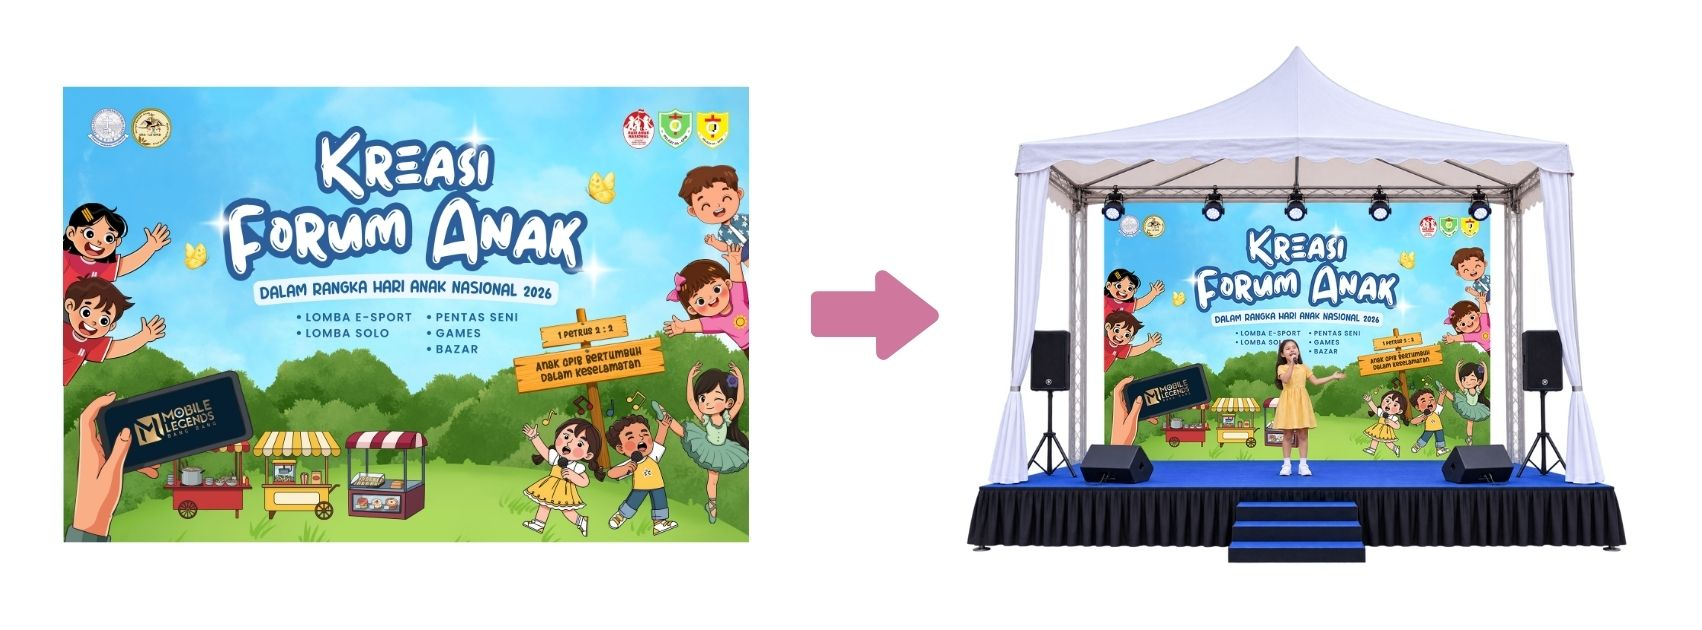
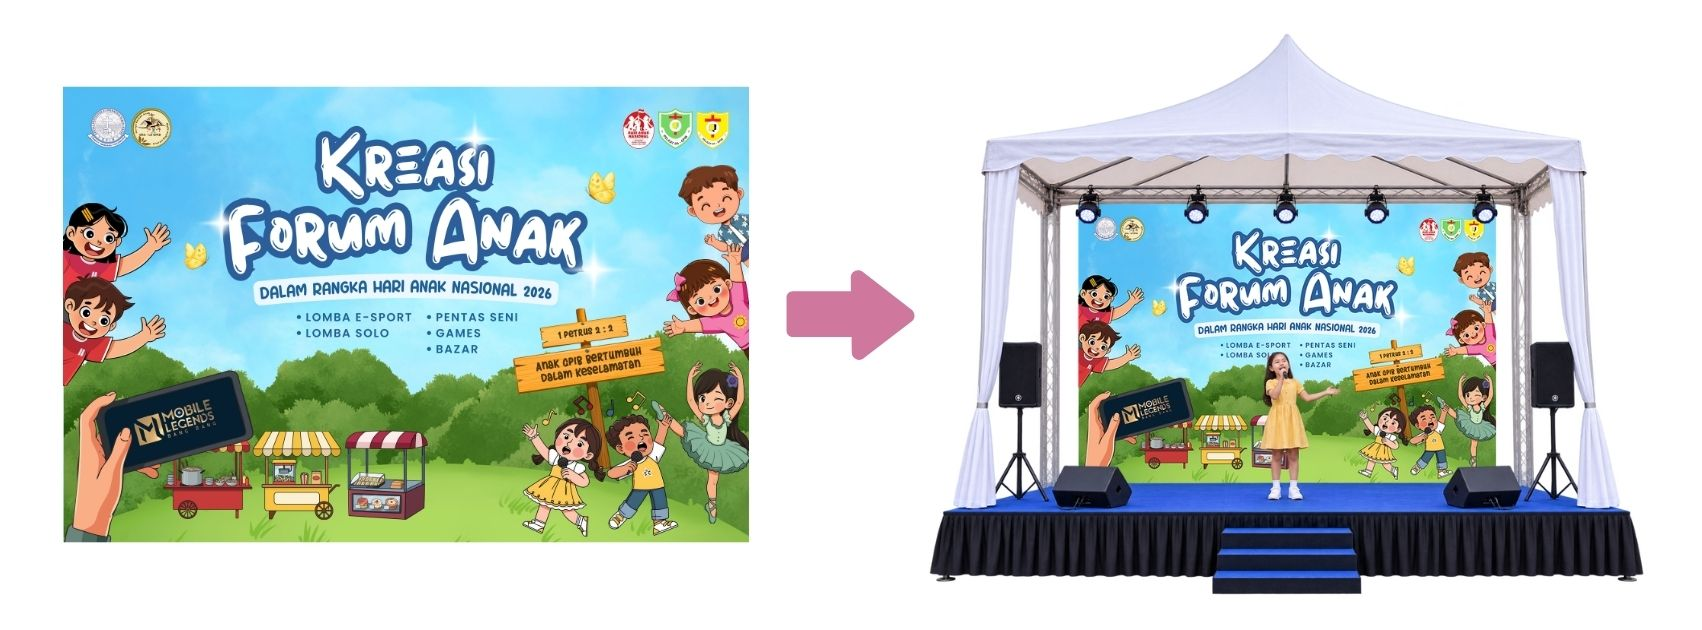
Update layout galeri Desain Lain dengan rasio Sampul Facebook (820x312)

diff --git a/app/portfolio/[slug]/page.tsx b/app/portfolio/[slug]/page.tsx
@@ -55,6 +55,7 @@ interface ActiveModalState {
   currentIndex: number;
   isSquare: boolean;
   isPortrait1080x1920?: boolean;
+  isCoverFB?: boolean;
 }
 
 export default function PortfolioDetailPage() {
@@ -98,6 +99,31 @@ export default function PortfolioDetailPage() {
   const isThumbnailDesign = collection.slug === "thumbnail-design";
   const isCharacterDesign = collection.slug === "character-design";
   const isLiveStreamDesign = collection.slug === "live-stream-design";
+  const isDesainLain = collection.slug === "desain-lain";
+
+  // Data Desain Lain (Sampul Facebook 820 x 312 piksel)
+  const desainLainItems: GalleryItem[] = [
+    {
+      src: "/portfolio/backdrop-fa.jpg",
+      alt: "Backdrop Forum Anak",
+      caption: "Backdrop Forum Anak",
+    },
+    {
+      src: "/portfolio/billboard-uksw.jpg",
+      alt: "Billboard UKSW",
+      caption: "Billboard UKSW",
+    },
+    {
+      src: "/portfolio/spanduk-pelkatpa.jpg",
+      alt: "Spanduk Pelkat PA",
+      caption: "Spanduk Pelkat PA",
+    },
+    {
+      src: "/portfolio/campaign.jpg",
+      alt: "Campaign Design",
+      caption: "Campaign Design",
+    },
+  ];
 
   // Data 5 Live Stream Design (Video 1080x1920)
   const liveStreamItems: GalleryItem[] = [
@@ -143,7 +169,9 @@ export default function PortfolioDetailPage() {
     };
   });
 
-  const gallery: GalleryItem[] = isLiveStreamDesign
+  const gallery: GalleryItem[] = isDesainLain
+    ? desainLainItems
+    : isLiveStreamDesign
     ? liveStreamItems
     : collection.gallery && collection.gallery.length > 0
     ? collection.gallery
@@ -222,7 +250,13 @@ export default function PortfolioDetailPage() {
     return () => window.removeEventListener("keydown", handleKeyDown);
   }, [activeModalState, handleNextModal, handlePrevModal]);
 
-  const openPostModal = (sectionTitle: string, postItem: GalleryItem, isSquare: boolean, isPortrait1080x1920?: boolean) => {
+  const openPostModal = (
+    sectionTitle: string,
+    postItem: GalleryItem,
+    isSquare: boolean,
+    isPortrait1080x1920?: boolean,
+    isCoverFB?: boolean
+  ) => {
     if (postItem.subSlides && postItem.subSlides.length > 0) {
       setActiveModalState({
         sectionTitle,
@@ -230,6 +264,7 @@ export default function PortfolioDetailPage() {
         currentIndex: 0,
         isSquare,
         isPortrait1080x1920,
+        isCoverFB,
       });
       return;
     }
@@ -240,6 +275,7 @@ export default function PortfolioDetailPage() {
       currentIndex: 0,
       isSquare,
       isPortrait1080x1920,
+      isCoverFB,
     });
   };
 
@@ -1074,9 +1110,46 @@ export default function PortfolioDetailPage() {
             })}
           </div>
 
+        ) : isDesainLain ? (
+
+          /* GALERI DESAIN LAIN: RASIO SAMPUL FACEBOOK 820 x 312 PIKSEL */
+          <div className="flex flex-col gap-6">
+            {gallery.map((item, index) => (
+              <div
+                key={index}
+                onClick={() =>
+                  openPostModal(collection.title, item, false, false, true)
+                }
+                className="group relative cursor-pointer overflow-hidden rounded-2xl border border-pink-200/80 bg-white p-3 shadow-sm transition-all duration-300 hover:border-pink-300 hover:shadow-md active:scale-98"
+              >
+                <div
+                  style={{ aspectRatio: "820 / 312" }}
+                  className="relative w-full overflow-hidden rounded-xl bg-pink-50"
+                >
+                  <Image
+                    src={item.src}
+                    alt={item.alt || item.caption || `Desain Lain ${index + 1}`}
+                    fill
+                    sizes="(max-width: 1152px) 100vw, 1152px"
+                    className="object-cover transition-transform duration-500 group-hover:scale-105"
+                  />
+                  <div className="absolute inset-0 flex items-center justify-center bg-[#2D2433]/40 font-mono text-sm font-bold text-white opacity-0 backdrop-blur-[2px] transition-opacity duration-300 group-hover:opacity-100">
+                    <span>{item.caption || item.alt}</span>
+                  </div>
+                </div>
+
+                <div className="mt-3 px-2 pb-1">
+                  <h3 className="text-sm font-bold text-[#2D2433] sm:text-base">
+                    {item.caption || item.alt}
+                  </h3>
+                </div>
+              </div>
+            ))}
+          </div>
+
         ) : (
 
-          /* THUMBNAIL DESIGN & LIVE STREAM DESIGN (AUTO-PLAY VIDEO LOOPING TIKTOK 1080x1920 / 9:16) */
+          /* THUMBNAIL DESIGN & LIVE STREAM DESIGN */
           <div className="relative mx-auto rounded-2xl border border-pink-200/80 bg-white p-3 shadow-[0_20px_60px_-15px_rgba(233,106,152,0.1)] sm:rounded-[36px] sm:p-8">
             <div className={`grid gap-2 sm:gap-4 ${isLiveStreamDesign ? "grid-cols-2 sm:grid-cols-3 md:grid-cols-5" : "grid-cols-3"}`}>
               {gallery.map((item, index) => (
@@ -1162,7 +1235,9 @@ export default function PortfolioDetailPage() {
           </div>
 
           <div
-            className="relative flex w-full max-w-xl flex-col items-center gap-4 sm:gap-6"
+            className={`relative flex w-full flex-col items-center gap-4 sm:gap-6 ${
+              activeModalState.isCoverFB ? "max-w-3xl" : "max-w-xl"
+            }`}
             onClick={(e) => e.stopPropagation()}
           >
             {activeModalState.posts.length > 1 ? (
@@ -1192,7 +1267,9 @@ export default function PortfolioDetailPage() {
                         >
                           <div
                             className={`relative w-full overflow-hidden rounded-2xl bg-black/40 transition-all duration-500 ${
-                              activeModalState.isPortrait1080x1920
+                              activeModalState.isCoverFB
+                                ? "aspect-[820/312]"
+                                : activeModalState.isPortrait1080x1920
                                 ? "aspect-[9/16]"
                                 : activeModalState.isSquare
                                 ? "aspect-square"
@@ -1213,7 +1290,7 @@ export default function PortfolioDetailPage() {
                                 src={post.src}
                                 alt={post.alt || t("portfolioItem")}
                                 fill
-                                sizes="(max-width: 640px) 75vw, 450px"
+                                sizes="(max-width: 640px) 75vw, 600px"
                                 className="object-cover pointer-events-none select-none"
                                 priority={isActive}
                               />
@@ -1250,10 +1327,16 @@ export default function PortfolioDetailPage() {
                 </button>
               </div>
             ) : (
-              <div className="relative w-full max-w-sm overflow-hidden rounded-2xl bg-black/40 shadow-2xl">
+              <div
+                className={`relative w-full overflow-hidden rounded-2xl bg-black/40 shadow-2xl ${
+                  activeModalState.isCoverFB ? "max-w-2xl" : "max-w-sm"
+                }`}
+              >
                 <div
                   className={`relative w-full ${
-                    activeModalState.isPortrait1080x1920
+                    activeModalState.isCoverFB
+                      ? "aspect-[820/312]"
+                      : activeModalState.isPortrait1080x1920
                       ? "aspect-[9/16]"
                       : activeModalState.isSquare
                       ? "aspect-square"
@@ -1274,7 +1357,7 @@ export default function PortfolioDetailPage() {
                       src={activeModalState.posts[0].src}
                       alt={activeModalState.posts[0].alt || t("portfolioItem")}
                       fill
-                      sizes="(max-width: 640px) 90vw, 450px"
+                      sizes="(max-width: 640px) 90vw, 600px"
                       className="object-cover"
                       priority
                     />
